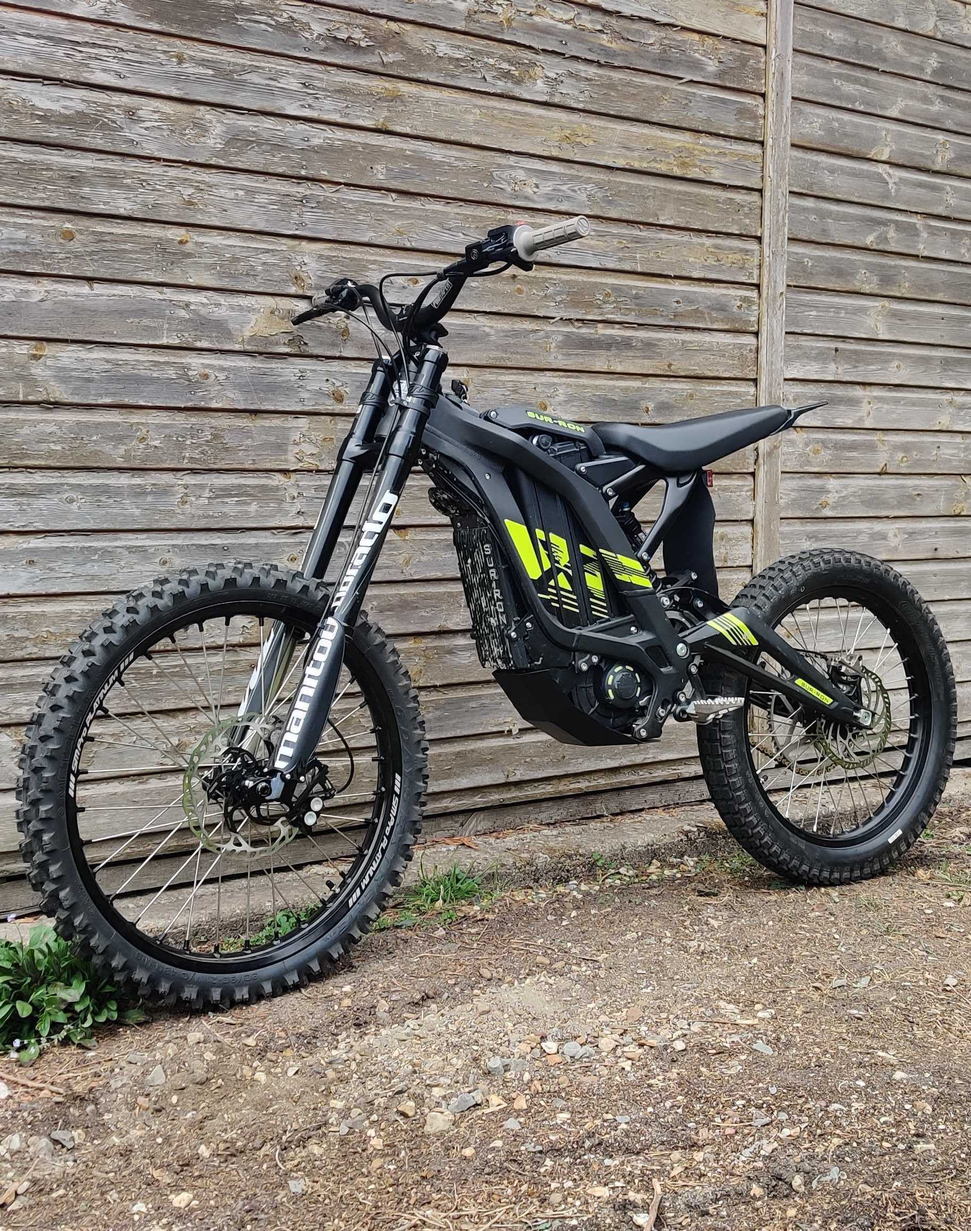
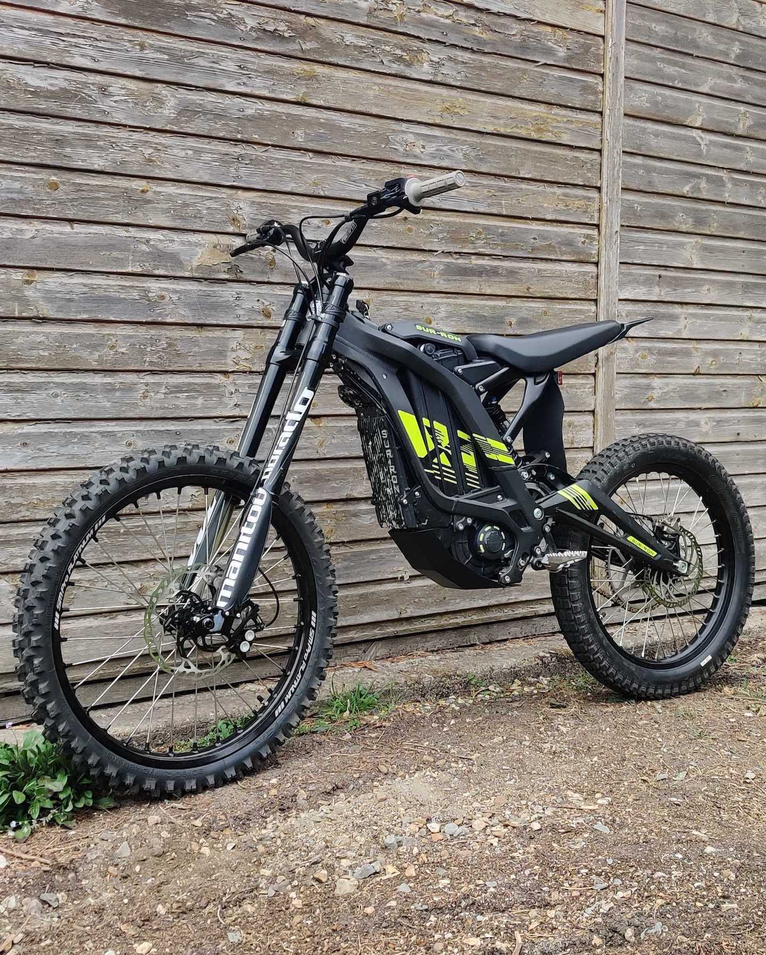
fix: images not scaling properly

diff --git a/README.md b/README.md
@@ -19,6 +19,6 @@ If I can't ride a bike I'm happy enough outdoors doing whatever (🏔and 🌲), 
 
 ---
 
-My Current Bike | My Current Face (on left!)
+My Current Bike | My Current Face <sub><sup>(on left 😜)</sup></sub>
 --------------- | --------------------------
-<img height="500" src="https://raw.githubusercontent.com/benagricola/benagricola/master/images/sur-ron.jpg" alt="Photo of a black and green modified Sur-Ron electric motocross bike leaning on a shed" />|<img height="500" src="https://raw.githubusercontent.com/benagricola/benagricola/master/images/me.jpg" alt="Photo of Ben Agricola with 3 friends on Ben Lomond Hike, Queenstown, NZ" />
+<img width="400px" src="https://raw.githubusercontent.com/benagricola/benagricola/master/images/sur-ron.jpg" alt="Photo of a black and green modified Sur-Ron electric motocross bike leaning on a shed" />|<img width="400px" src="https://raw.githubusercontent.com/benagricola/benagricola/master/images/me.jpg" alt="Photo of Ben Agricola with 3 friends on Ben Lomond Hike, Queenstown, NZ" />
